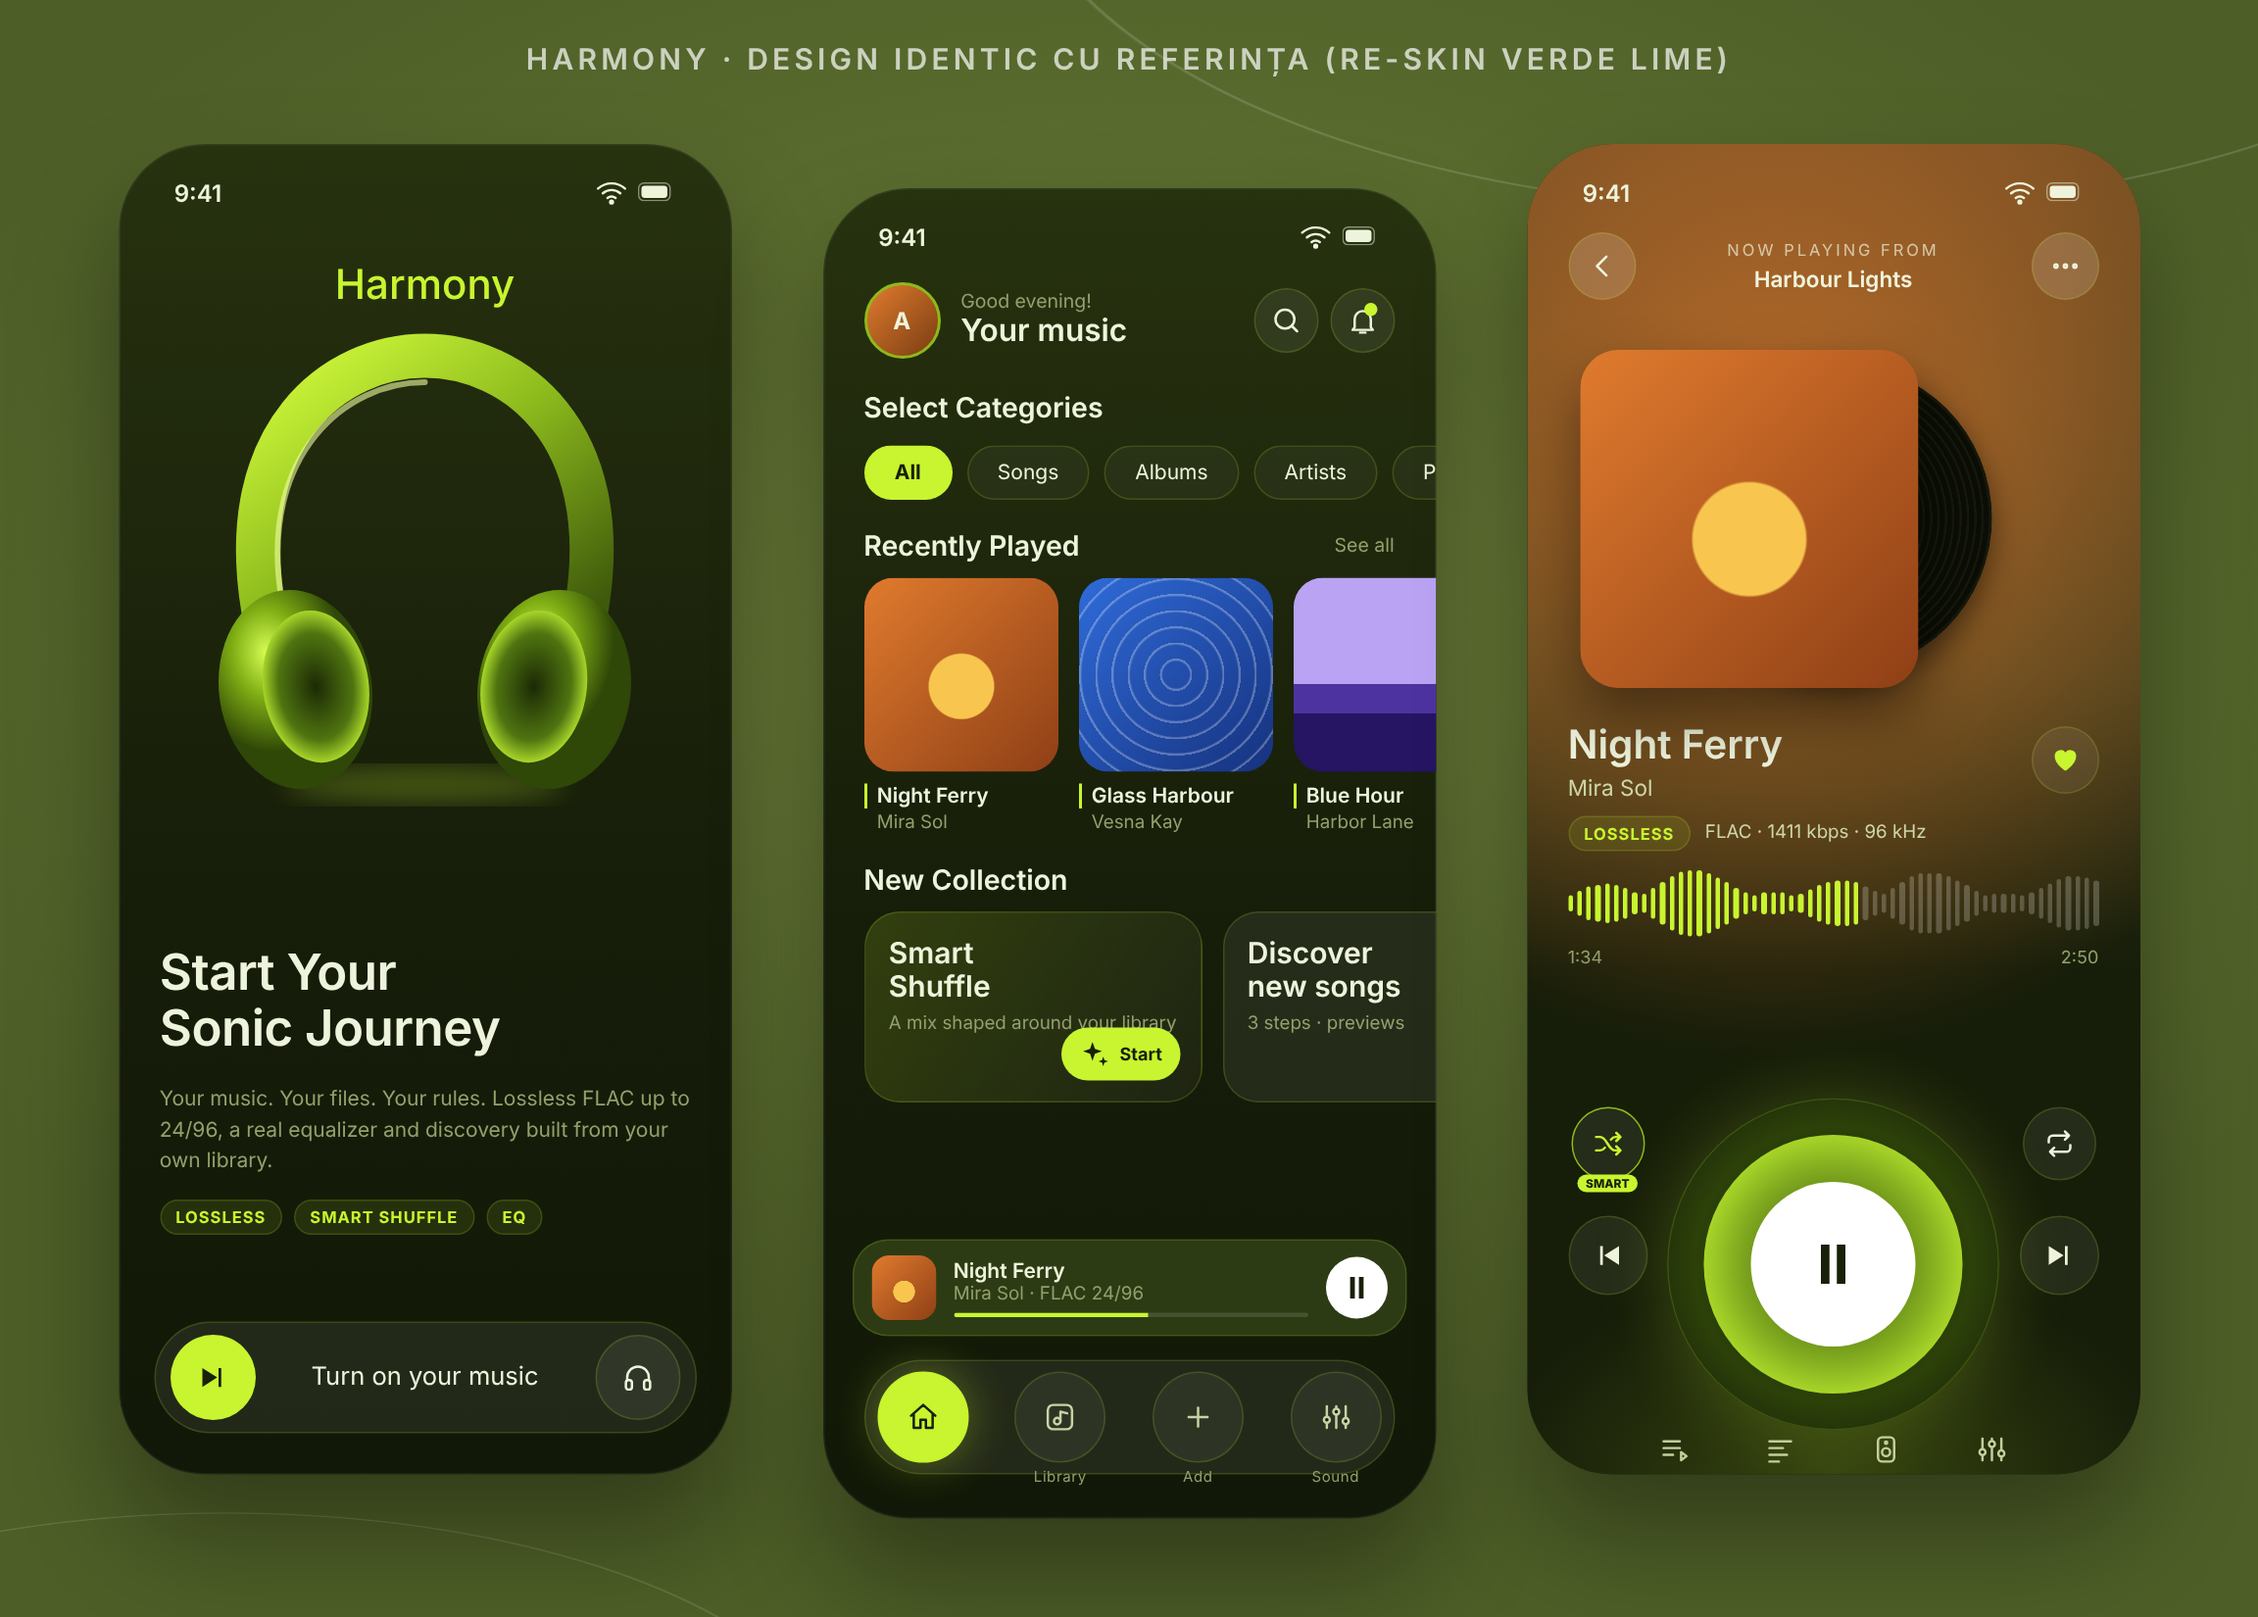
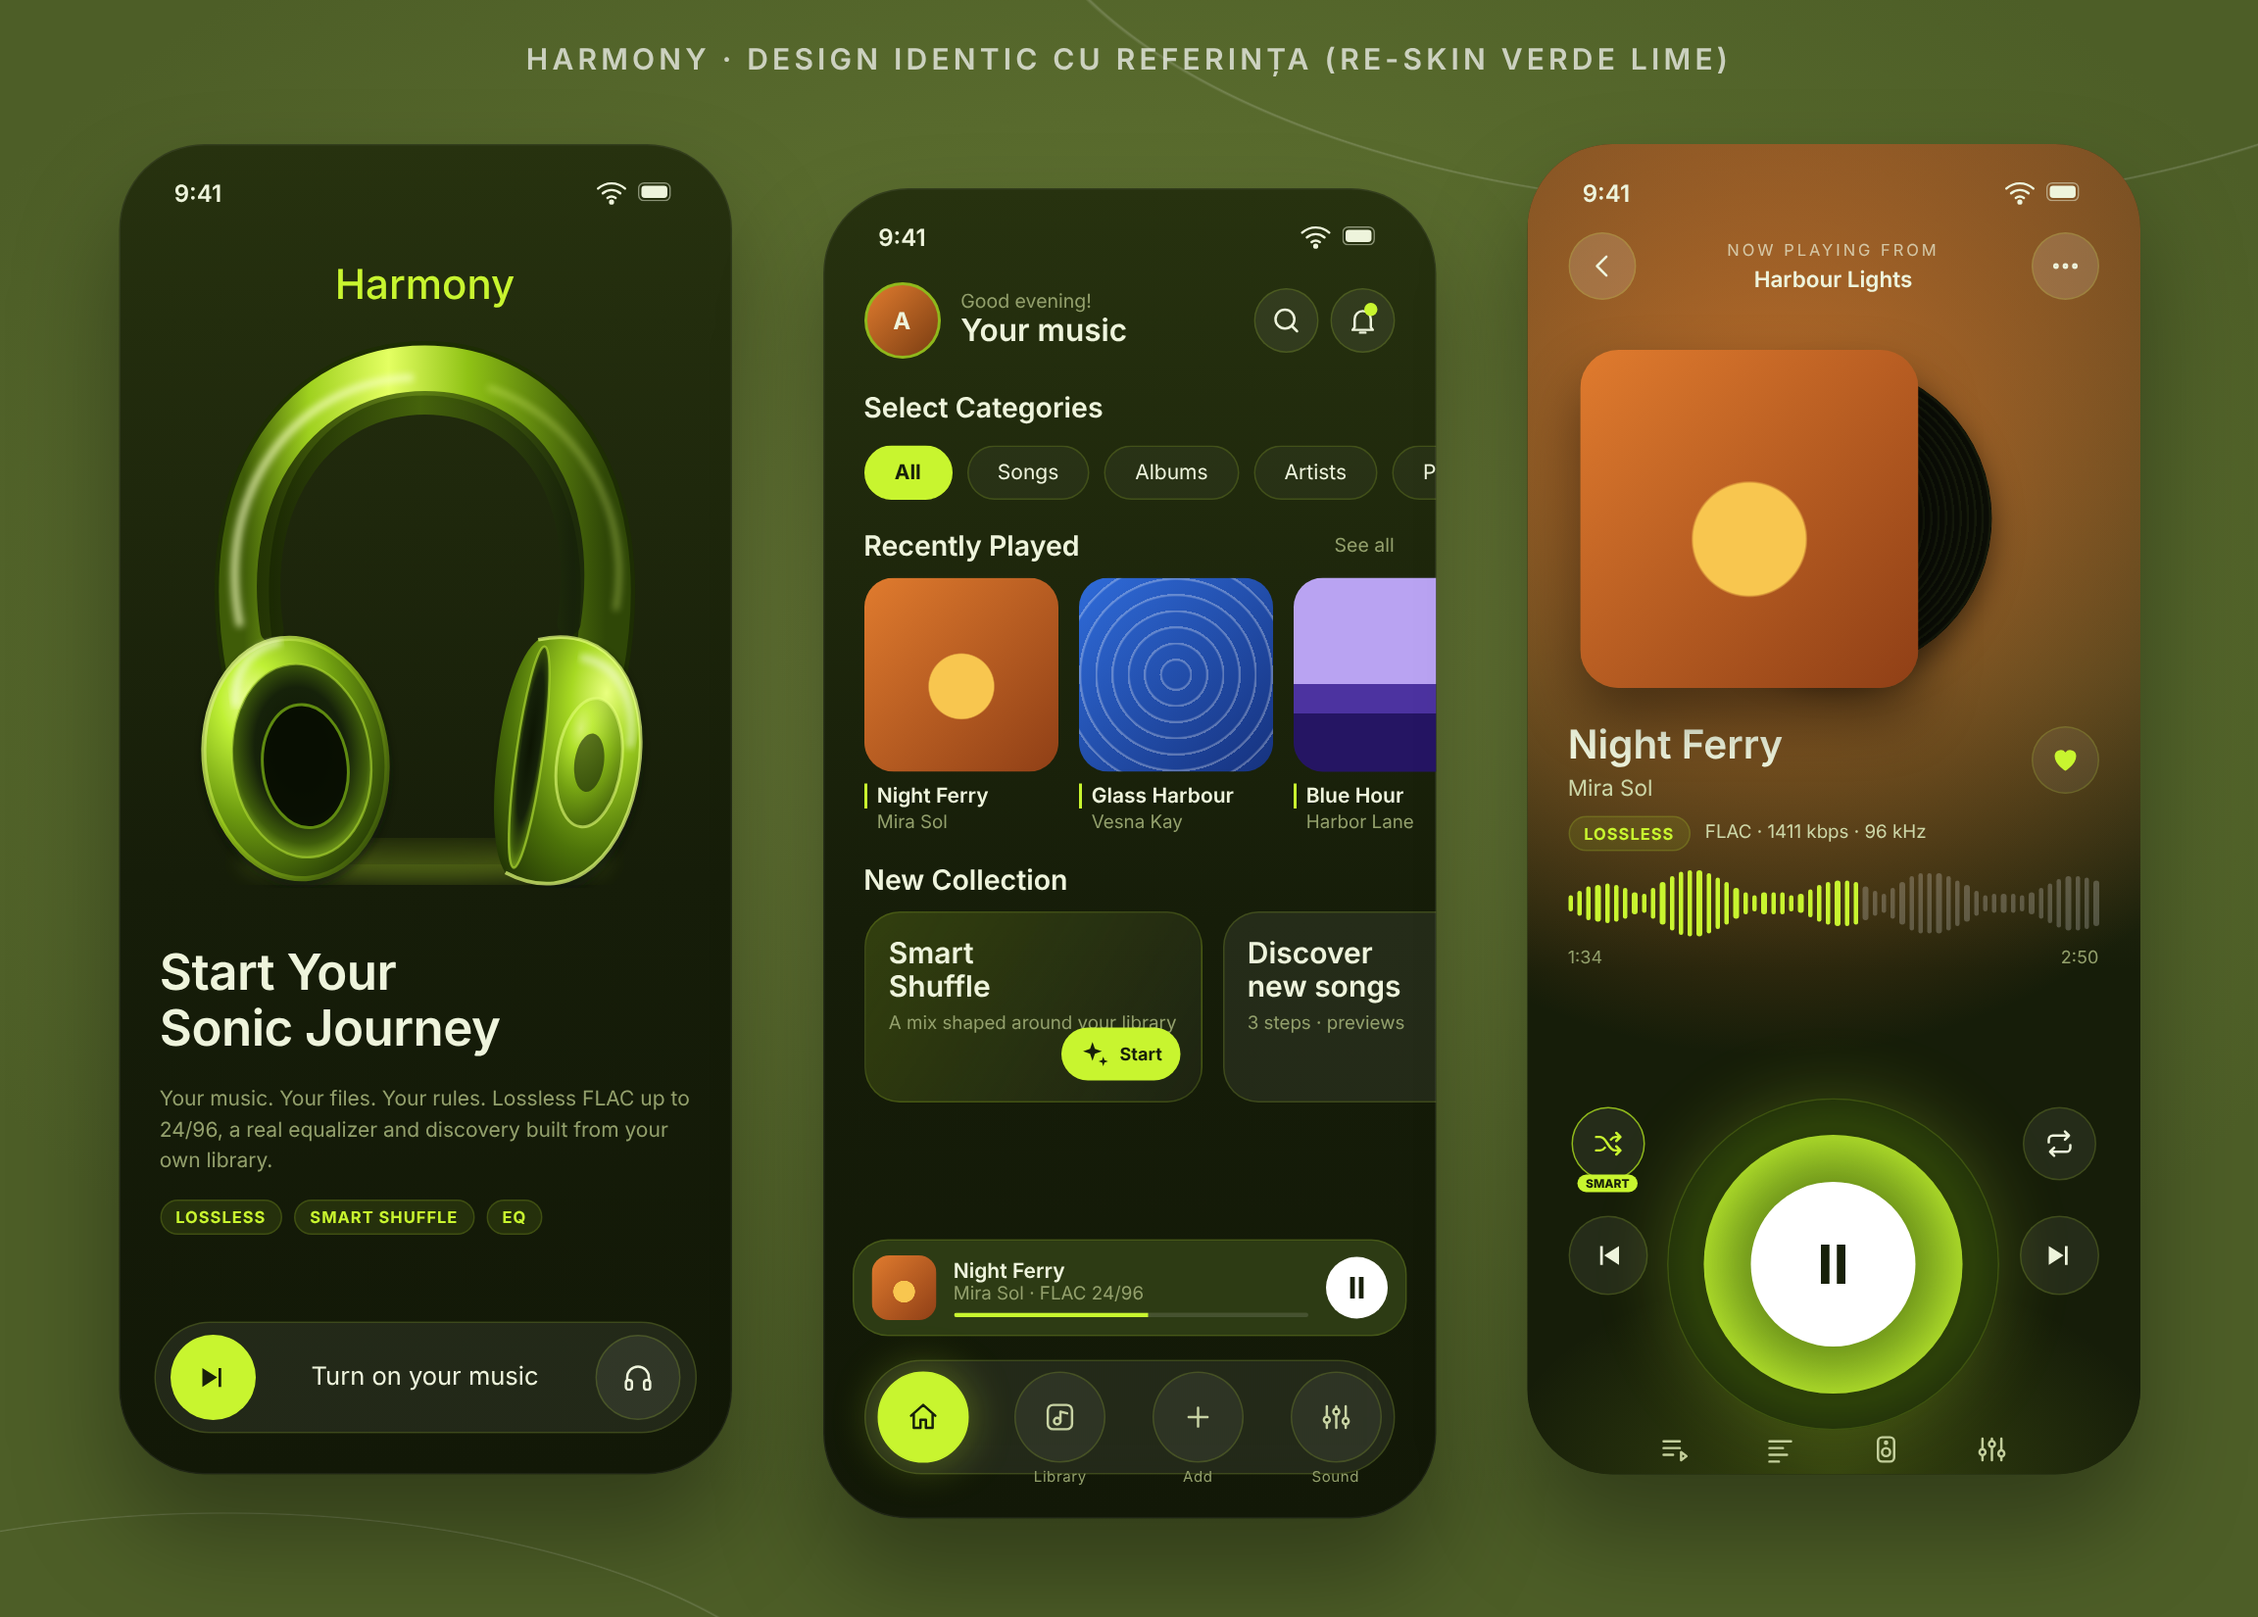
More realistic 3D headphones in the welcome mockup
Claude-Session: https://claude.ai/code/session_01WTKh7aKp79CTDk2c2kf7Cu

Changed region(s): [[0.0625, 0.1855, 0.2812, 0.5564]]

diff --git a/docs/redesign/tunehive-mockups/mockups.html b/docs/redesign/tunehive-mockups/mockups.html
@@ -100,16 +100,50 @@ function SB(){return `<div class="sb"><span>9:41</span><span class="r">${I('sig'
 function NAV(on){const it=[['home','Listen'],['lib','Library'],['plus','Add'],['eq','Sound']];
  return `<div class="nav">${it.map((x,k)=>`<div class="n ${k==on?'on':''}">${I(x[0])}<small>${k==on?'':x[1]}</small></div>`).join('')}</div>`}
 function WAVE(n,p,h=56,seed=3){let s='';for(let k=0;k<n;k++){const v=Math.abs(Math.sin(k*.37+seed)*.55+Math.sin(k*.11+seed*2)*.45);s+=`<b class="${k/n<p?'p':''}" style="height:${10+v*(h-12)}px"></b>`}return `<div class="wave" style="height:${h}px">${s}</div>`}
-function HEAD(){return `<svg viewBox="0 0 300 330" width="300" height="330">
-<defs><linearGradient id="hb" x1="0" y1="0" x2="1" y2="1"><stop offset="0" stop-color="#d6ff3d"/><stop offset=".5" stop-color="#8dbb1d"/><stop offset="1" stop-color="#3f5a0b"/></linearGradient>
-<radialGradient id="cup" cx=".35" cy=".3"><stop offset="0" stop-color="#d8ff55"/><stop offset=".45" stop-color="#7fae14"/><stop offset="1" stop-color="#2f4707"/></radialGradient>
-<radialGradient id="pad" cx=".5" cy=".5"><stop offset="0" stop-color="#1c2a05"/><stop offset=".7" stop-color="#4f7410"/><stop offset="1" stop-color="#a8d62a"/></radialGradient>
-<filter id="gl"><feGaussianBlur stdDeviation="9"/></filter></defs>
-<ellipse cx="150" cy="310" rx="95" ry="12" fill="#c8f52f" opacity=".25" filter="url(#gl)"/>
-<path d="M40 190C20 70 90 18 150 18s130 52 110 172" fill="none" stroke="url(#hb)" stroke-width="30" stroke-linecap="round"/>
-<path d="M52 180C38 85 96 36 150 36" fill="none" stroke="#f0ffa0" stroke-width="4" opacity=".6" stroke-linecap="round"/>
-<g transform="rotate(-8 62 245)"><ellipse cx="62" cy="245" rx="52" ry="68" fill="url(#cup)"/><ellipse cx="76" cy="245" rx="36" ry="52" fill="url(#pad)"/></g>
-<g transform="rotate(8 238 245)"><ellipse cx="238" cy="245" rx="52" ry="68" fill="url(#cup)"/><ellipse cx="224" cy="245" rx="36" ry="52" fill="url(#pad)"/></g>
+function HEAD(){return `<svg viewBox="0 0 340 380" width="340" height="380">
+<defs>
+<linearGradient id="band" x1="0" y1="0" x2="1" y2="0"><stop offset="0" stop-color="#3f5c08"/><stop offset=".18" stop-color="#9fd11f"/><stop offset=".4" stop-color="#e4ff62"/><stop offset=".62" stop-color="#8fc215"/><stop offset="1" stop-color="#2f4707"/></linearGradient>
+<linearGradient id="bandIn" x1="0" y1="0" x2="1" y2="0"><stop offset="0" stop-color="#1a2803"/><stop offset=".5" stop-color="#4b6c0b"/><stop offset="1" stop-color="#17220a"/></linearGradient>
+<radialGradient id="shell" cx=".3" cy=".25" r=".95"><stop offset="0" stop-color="#f2ffa3"/><stop offset=".18" stop-color="#bff035"/><stop offset=".5" stop-color="#6f9d10"/><stop offset=".85" stop-color="#2b4306"/><stop offset="1" stop-color="#1b2a04"/></radialGradient>
+<radialGradient id="shellR" cx=".7" cy=".2" r="1"><stop offset="0" stop-color="#e9ff7f"/><stop offset=".25" stop-color="#a6d822"/><stop offset=".65" stop-color="#4d7309"/><stop offset="1" stop-color="#1a2a04"/></radialGradient>
+<radialGradient id="cush" cx=".5" cy=".45" r=".6"><stop offset="0" stop-color="#0d1503"/><stop offset=".55" stop-color="#16220a"/><stop offset=".8" stop-color="#3f5d0b"/><stop offset="1" stop-color="#91bf24"/></radialGradient>
+<linearGradient id="ring" x1="0" y1="0" x2="1" y2="1"><stop offset="0" stop-color="#f6ffb0"/><stop offset=".4" stop-color="#9ccc1c"/><stop offset="1" stop-color="#2a4206"/></linearGradient>
+<linearGradient id="yoke" x1="0" y1="0" x2="1" y2="0"><stop offset="0" stop-color="#2c4606"/><stop offset=".45" stop-color="#d4f84a"/><stop offset="1" stop-color="#34510a"/></linearGradient>
+<filter id="bl"><feGaussianBlur stdDeviation="7"/></filter><filter id="bl2"><feGaussianBlur stdDeviation="2.500"/></filter>
+<clipPath id="bandclip"><path d="M52 232C28 100 92 28 170 28s142 72 118 204" fill="none"/></clipPath>
+</defs>
+<ellipse cx="170" cy="362" rx="125" ry="13" fill="#c8f52f" opacity=".3" filter="url(#bl)"/>
+<ellipse cx="170" cy="355" rx="90" ry="7" fill="#000" opacity=".35" filter="url(#bl)"/>
+<!-- headband -->
+<path d="M52 232C28 100 92 28 170 28s142 72 118 204" fill="none" stroke="#1d2d04" stroke-width="40" stroke-linecap="round"/>
+<path d="M52 232C28 100 92 28 170 28s142 72 118 204" fill="none" stroke="url(#band)" stroke-width="34" stroke-linecap="round"/>
+<path d="M66 205C52 112 104 50 170 50s112 56 98 150" fill="none" stroke="url(#bandIn)" stroke-width="16" stroke-linecap="round" opacity=".85"/>
+<path d="M44 200C26 108 84 36 160 33" fill="none" stroke="#f6ffc0" stroke-width="5" stroke-linecap="round" opacity=".75" filter="url(#bl2)"/>
+<path d="M300 190C312 120 270 58 214 40" fill="none" stroke="#e6ff7a" stroke-width="3" stroke-linecap="round" opacity=".45" filter="url(#bl2)"/>
+<!-- yokes -->
+<path d="M44 224l30 8-6 34-30-8z" fill="url(#yoke)"/>
+<path d="M296 224l-30 8 6 34 30-8z" fill="url(#yoke)"/>
+<!-- left cup (front view) -->
+<g transform="rotate(-7 82 292)">
+ <ellipse cx="82" cy="296" rx="64" ry="84" fill="#10190a" opacity=".6" filter="url(#bl2)"/>
+ <ellipse cx="82" cy="292" rx="62" ry="82" fill="url(#shell)"/>
+ <ellipse cx="82" cy="292" rx="62" ry="82" fill="none" stroke="url(#ring)" stroke-width="3.500" opacity=".85"/>
+ <ellipse cx="86" cy="294" rx="47" ry="66" fill="url(#cush)"/>
+ <ellipse cx="86" cy="294" rx="47" ry="66" fill="none" stroke="#b7e237" stroke-width="1.600" opacity=".55"/>
+ <ellipse cx="88" cy="298" rx="29" ry="42" fill="#080d02" opacity=".9"/>
+ <ellipse cx="88" cy="298" rx="29" ry="42" fill="none" stroke="#5f8a10" stroke-width="2"/>
+ <path d="M46 250C48 224 64 214 80 212" fill="none" stroke="#fff" stroke-width="5" stroke-linecap="round" opacity=".55" filter="url(#bl2)"/>
+</g>
+<!-- right cup (3/4 view) -->
+<g transform="rotate(8 262 292)">
+ <ellipse cx="270" cy="298" rx="48" ry="84" fill="#10190a" opacity=".6" filter="url(#bl2)"/>
+ <path d="M236 214C284 196 316 236 316 292s-30 100-80 82c-20-20-24-136 0-160z" fill="url(#shellR)"/>
+ <path d="M236 214C284 196 316 236 316 292s-30 100-80 82" fill="none" stroke="#e4ff7a" stroke-width="2.500" opacity=".7"/>
+ <ellipse cx="241" cy="294" rx="9" ry="76" fill="url(#cush)"/>
+ <ellipse cx="241" cy="294" rx="9" ry="76" fill="none" stroke="#b7e237" stroke-width="1.600" opacity=".6"/>
+ <ellipse cx="282" cy="292" rx="22" ry="44" fill="url(#shell)" opacity=".55"/><ellipse cx="282" cy="292" rx="22" ry="44" fill="none" stroke="#e4ff7a" stroke-width="2" opacity=".6"/><ellipse cx="282" cy="292" rx="10" ry="20" fill="#16220a" opacity=".6"/>
+ <path d="M268 222C296 224 308 250 308 276" fill="none" stroke="#fff" stroke-width="5" stroke-linecap="round" opacity=".5" filter="url(#bl2)"/>
+</g>
 </svg>`}
 function VINYL(sz){return `<div style="position:absolute;right:-${sz*.22}px;top:${sz*.04}px;width:${sz*.92}px;height:${sz*.92}px;border-radius:50%;background:repeating-radial-gradient(circle,#0b0d06 0 3px,#151a0b 4px 5px);box-shadow:0 8px 20px rgba(0,0,0,.5)"><div style="position:absolute;inset:34%;border-radius:50%;background:radial-gradient(circle,#161d09 0 12%,#e07b2e 13%)"></div></div>`}
 </script>
